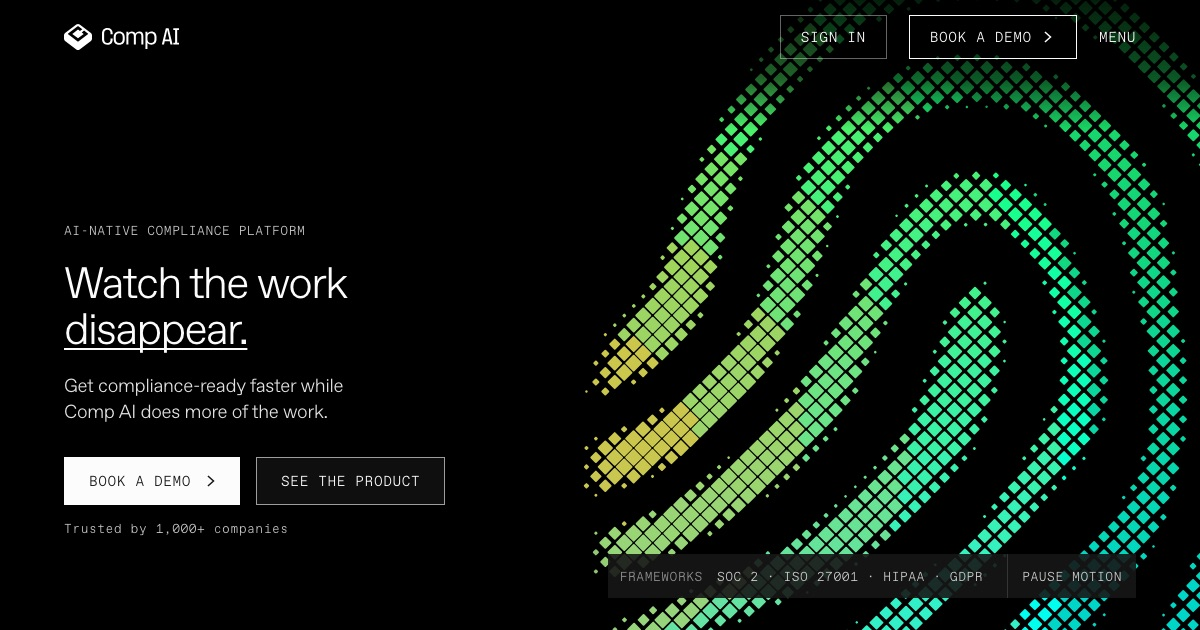
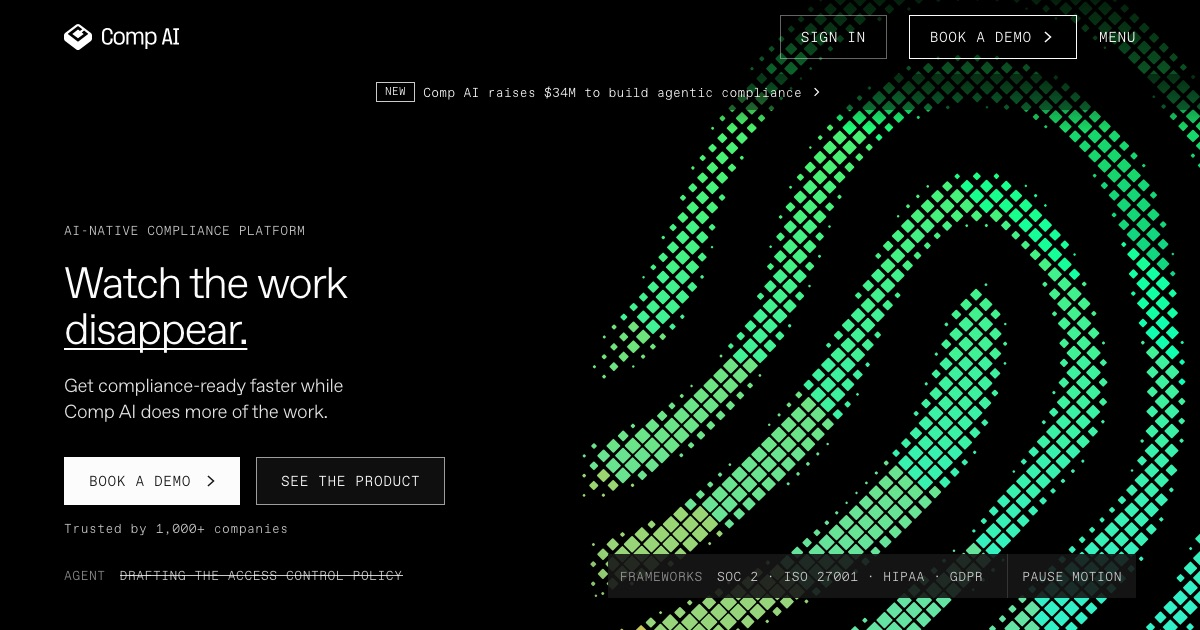
Hero v01: wipe hover, funding announcement bar, agent ticker back
Buttons use the wipe hover from hover-states-v01 (variant 01): the fill
slides in from the left and leaves to the right, mint to cyan on the
primary. Book a demo keeps the Figma looks (outline in the nav, filled
in the hero). The funding announcement bar from Figma 232:24 sits under
the nav, and the agent tasks are back in the bottom row as AGENT next to
the frameworks chip.

diff --git a/web/hero/comp-ai-hero-v01/index.html b/web/hero/comp-ai-hero-v01/index.html
@@ -64,27 +64,41 @@
   .links { position: absolute; left: 50%; transform: translateX(-50%); display: flex; gap: 30px; color: var(--nav); }
   .links a { position: relative; display: inline-flex; align-items: center; gap: 4px; padding: 8px 0; transition: color .2s; }
   .links a img { width: 10px; height: 10px; }
-  .links a::after { content: ""; position: absolute; left: 0; right: 0; bottom: 2px; height: 1px; background: currentColor; transform: scaleX(0); transform-origin: left; transition: transform .3s var(--ease); }
-  .links a:hover { color: var(--white); }
-  .links a:hover::after { transform: scaleX(1); }
+  .links a::after { content: ""; position: absolute; left: 0; right: 0; bottom: 2px; height: 1px; background: currentColor; transform: scaleX(0); transform-origin: right; transition: transform .4s var(--ease); }
+  .links a:is(:hover, :focus-visible) { color: var(--white); }
+  .links a:is(:hover, :focus-visible)::after { transform: scaleX(1); transform-origin: left; }
   .nav-actions { margin-left: auto; display: flex; align-items: center; gap: 22px; }
   .menu-btn { display: none; }
+  .announce { position: relative; height: 36px; display: flex; align-items: center; justify-content: center; }
+  .announce::before { content: ""; position: absolute; top: 0; bottom: 0; left: 50%; width: 100vw; transform: translateX(-50%); background: rgba(0,0,0,.45); z-index: -1; }
+  .announce .short { display: none; }
+  .announce a { display: inline-flex; align-items: center; gap: 8px; min-height: 36px; font: 300 13px/1 var(--mono); letter-spacing: .02em; color: var(--white); }
+  .announce .tag { text-transform: uppercase; padding: 3px 8px 4px; border: 1px solid rgba(252,252,252,.8); font-size: 11px; letter-spacing: .04em; }
+  .announce .t { position: relative; }
+  .announce .t::after { content: ""; position: absolute; left: 0; right: 0; bottom: -3px; height: 1px; background: currentColor; transform: scaleX(0); transform-origin: right; transition: transform .4s var(--ease); }
+  .announce a:is(:hover, :focus-visible) .t::after { transform: scaleX(1); transform-origin: left; }
+  .announce svg { width: 14px; height: 14px; transition: transform .3s var(--ease); }
+  .announce a:is(:hover, :focus-visible) svg { transform: translateX(2px); }
 
   /* buttons: square, mono label (232:56, 232:60, 232:19) */
   .btn { display: inline-flex; align-items: center; justify-content: center; gap: 8px; height: 44px; padding: 0 20px; border: 1.5px solid var(--white); color: var(--white);
     font: 300 14.5px/1 var(--mono); text-transform: uppercase; letter-spacing: .04em; white-space: nowrap;
     transition: transform .18s var(--ease), background-color .2s, color .2s, border-color .2s; }
-  .btn:hover { transform: translateY(-2px); }
-  .btn:active { transform: translateY(0) scale(.98); }
-  .btn .chev { width: 16px; height: 16px; transition: transform .25s var(--ease); }
-  .btn:hover .chev { transform: translateX(3px); }
+  .btn:active { transform: scale(.98); }
+  .btn .chev { width: 16px; height: 16px; flex: none; transition: transform .3s var(--ease); }
   .btn-quiet { border-color: rgba(252,252,252,.4); }
-  .btn-quiet:hover { border-color: var(--white); }
-  .btn-outline:hover { background: rgba(252,252,252,.08); }
   .btn-primary { height: 48px; padding: 0 20px 0 24px; gap: 12px; background: var(--white); border-color: var(--white); color: var(--ink); }
-  .btn-primary:hover { background: #fff; }
   .btn-secondary { height: 48px; padding: 0 24px; background: rgba(252,252,252,.06); border-color: rgba(252,252,252,.6); }
-  .btn-secondary:hover { border-color: var(--white); background: rgba(252,252,252,.1); }
+  /* hover: wipe (web/hero/hover-states-v01, variant 01). An inverse fill slides in from the left and leaves
+     to the right; the primary fills with the motif's mint to cyan, the others with white and dark text. */
+  .btn { position: relative; overflow: hidden; isolation: isolate; }
+  .btn::before { content: ""; position: absolute; inset: -1px; z-index: -1; background: var(--white);
+    transform: scaleX(0); transform-origin: right; transition: transform .5s var(--ease); }
+  .btn:is(:hover, :focus-visible)::before { transform: scaleX(1); transform-origin: left; }
+  .btn:is(:hover, :focus-visible) { color: var(--ink); border-color: var(--white); }
+  .btn-primary::before { background: linear-gradient(90deg, var(--mint), var(--cyan)); }
+  .btn-primary:is(:hover, :focus-visible) { border-color: var(--mint); }
+  .btn:is(:hover, :focus-visible) .chev { transform: translateX(3px); }
   .chev path { stroke: currentColor; }
 
   /* ---- hero ---------------------------------------------------------------------------- */
@@ -94,7 +108,7 @@
   .hero::after { content: ""; position: absolute; inset: 0; z-index: 0; pointer-events: none;
     background: linear-gradient(180deg, rgba(0,0,0,.85) 0, rgba(0,0,0,.6) 78px, rgba(0,0,0,0) 130px),
                 radial-gradient(70% 70% at 0% 100%, rgba(0,0,0,.92) 0%, rgba(0,0,0,.8) 45%, rgba(0,0,0,0) 75%); }
-  .hero-inner { position: relative; z-index: 1; height: 100%; display: grid; grid-template-columns: minmax(0, 1fr); grid-template-rows: 74px 1fr auto auto; padding-bottom: 32px; }
+  .hero-inner { position: relative; z-index: 1; height: 100%; display: grid; grid-template-columns: minmax(0, 1fr); grid-template-rows: 118px 1fr auto auto; padding-bottom: 32px; }
   .hero-text { grid-column: 1; grid-row: 3; max-width: min(760px, 46%); }
   h1 { margin: 0; font-weight: 300; font-size: clamp(44px, 3.55vw, 68px); line-height: 1.05; letter-spacing: -.04em; color: var(--white); }
   h1 .kicker { display: block; font: 300 13px/1 var(--mono); letter-spacing: .04em; text-transform: uppercase; color: rgba(252,252,252,.8); margin: 0 0 24px; }
@@ -105,7 +119,13 @@
   .assure { margin: 16px 0 0; font: 300 13px/1.3 var(--mono); letter-spacing: .04em; color: rgba(252,252,252,.8); }
 
   /* frameworks chip (232:8) */
-  .strip { grid-row: 4; margin-top: 16px; display: flex; justify-content: flex-end; }
+  .strip { grid-row: 4; margin-top: 16px; display: flex; align-items: center; justify-content: space-between; gap: 24px; }
+  .agent { display: flex; align-items: center; gap: 14px; min-width: 0; font: 300 13px/1.3 var(--mono); letter-spacing: .04em; text-transform: uppercase; color: rgba(252,252,252,.8); }
+  .agent b { font-weight: 300; color: rgba(252,252,252,.55); flex: none; }
+  .task { white-space: nowrap; overflow: hidden; text-overflow: ellipsis; transition: opacity .5s, filter .5s; }
+  .task.done { opacity: 0; filter: blur(3px); }
+  .task s { text-decoration: none; background: linear-gradient(currentColor, currentColor) 0 55% / 0 1px no-repeat; transition: background-size .6s var(--ease); }
+  .task.strike s { background-size: 100% 1px; }
   .chip { display: flex; align-items: center; gap: 24px; padding: 0 0 0 12px; background: rgba(22,22,22,.9);
     font: 300 13px/1 var(--mono); letter-spacing: .04em; text-transform: uppercase; color: rgba(252,252,252,.8); white-space: nowrap; }
   .chip .fw { display: flex; gap: 14px; }
@@ -134,9 +154,10 @@
     .menu-btn { display: inline-flex; align-items: center; height: 44px; padding: 0; background: none; border: 0; cursor: pointer; font: 300 14.5px/1 var(--mono); text-transform: uppercase; letter-spacing: .04em; color: var(--white); position: relative; z-index: 45; }
   }
   @media (max-width: 1023px) {
-    .hero-inner { grid-template-rows: 74px 1fr auto auto; }
+    .hero-inner { grid-template-rows: 110px 1fr auto auto; }
     .hero-text { max-width: 640px; }
-    .strip { justify-content: flex-start; margin-top: 24px; }
+    .strip { flex-direction: column; align-items: flex-start; gap: 12px; margin-top: 24px; }
+    .task { white-space: normal; }
     .chip { background: none; padding: 0; }
     .pause { border-left: 0; padding: 0 0 0 4px; }
   }
@@ -145,6 +166,14 @@
     .hero::after { background: linear-gradient(180deg, rgba(0,0,0,.85) 0, rgba(0,0,0,0) 130px), linear-gradient(0deg, #000 0%, rgba(0,0,0,.94) 52%, rgba(0,0,0,0) 72%); }
   }
   @media (max-width: 600px) {
+    .announce { height: 44px; }
+    .agent { width: 100%; }
+    .task { flex: 1; }
+    .task s { display: block; background: none; text-decoration: line-through; text-decoration-thickness: 1px; text-decoration-color: transparent; transition: text-decoration-color .5s; }
+    .task.strike s { text-decoration-color: currentColor; }
+    .announce a { min-height: 44px; }
+    .announce .full { display: none; }
+    .announce .short { display: inline; }
     :root { --edge: 16px; }
     .nav-actions .btn-quiet { display: none; }
     .nav-actions .btn { height: 44px; padding: 0 14px; }
@@ -160,7 +189,8 @@
   @media (prefers-reduced-motion: reduce) {
     .js [data-rise] > *, .js.ready [data-rise] > * { opacity: 1; transform: none; transition: none; }
     .js .hero canvas { transition: none; opacity: 1; }
-    .btn, .btn:hover { transform: none; }
+    .btn::before, .links a::after { transition: none; }
+
   }
 </style>
 </head>
@@ -178,6 +208,9 @@
       <button class="menu-btn" type="button" aria-expanded="false" aria-controls="sheet">Menu</button>
     </div>
   </div>
+  <div class="wrap announce">
+    <a href="#"><span class="tag">New</span><span class="t"><span class="full">Comp AI raises $34M to build agentic compliance</span><span class="short">Comp AI raises $34M</span></span><svg viewBox="0 0 14 14" fill="none" aria-hidden="true"><path d="M5 3.5 8.5 7 5 10.5" stroke="currentColor" stroke-width="1.2" stroke-linecap="square"/></svg></a>
+  </div>
 </header>
 
 <main id="main">
@@ -194,6 +227,7 @@
       <p class="assure">Trusted by 1,000+ companies</p>
     </div>
     <div class="strip">
+      <span class="agent" aria-live="off"><b>Agent</b><span class="task" id="task"><s>Collecting evidence from AWS</s></span></span>
       <div class="chip">
         <span class="fw" aria-label="Frameworks"><b>Frameworks</b><span>SOC 2 · ISO 27001 · HIPAA · GDPR</span></span>
         <button class="pause" id="pause" type="button" aria-pressed="false">Pause motion</button>
@@ -223,6 +257,22 @@
   });
 
   let paused = reduced;
+
+  // ---- agent ticker: the work gets done, struck through and cleared --------------------------
+  const TASKS = ['Collecting evidence from AWS', 'Drafting the access control policy', 'Reviewing a new vendor',
+                 'Scoring laptop encryption risk', 'Mapping controls to ISO 27001', 'Checking MFA across Google Workspace'];
+  const taskEl = document.getElementById('task');
+  let ti = 0;
+  function tick() {
+    if (paused) return;
+    taskEl.classList.add('strike');
+    setTimeout(() => taskEl.classList.add('done'), 900);
+    setTimeout(() => {
+      ti = (ti + 1) % TASKS.length; taskEl.firstChild.textContent = TASKS[ti];
+      taskEl.classList.remove('strike', 'done');
+    }, 1500);
+  }
+  let tickTimer = setInterval(tick, 3400);
 
   // ---- fingerprint ------------------------------------------------------------------------
   const D = window.BLEND_FIELDS;
@@ -488,7 +538,7 @@
   const pauseBtn = document.getElementById('pause');
   const setPaused = v => {
     paused = v; pauseBtn.setAttribute('aria-pressed', v); pauseBtn.textContent = v ? 'Play motion' : 'Pause motion';
-    if (v) press.target = 0;
+    if (v) { press.target = 0; clearInterval(tickTimer); } else { clearInterval(tickTimer); tickTimer = setInterval(tick, 3400); }
     kick();
   };
   pauseBtn.addEventListener('click', () => setPaused(!paused));
